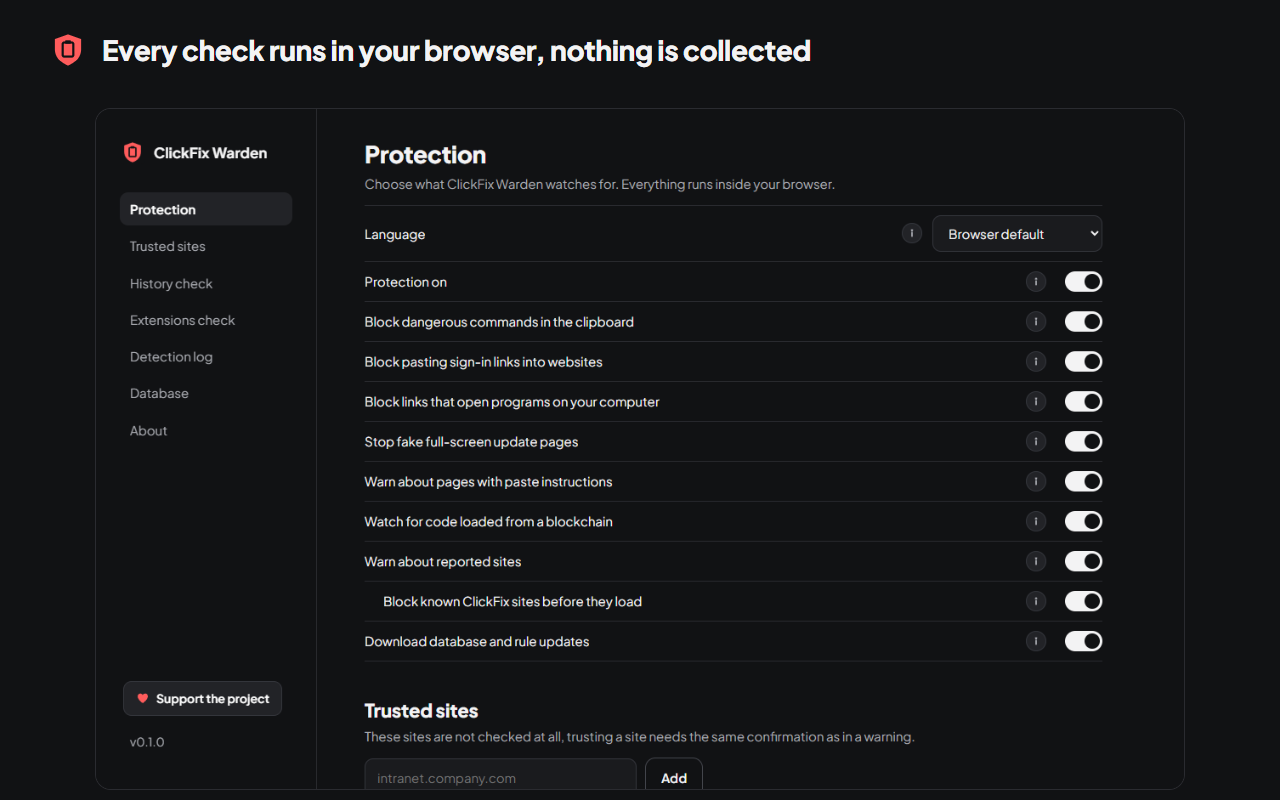
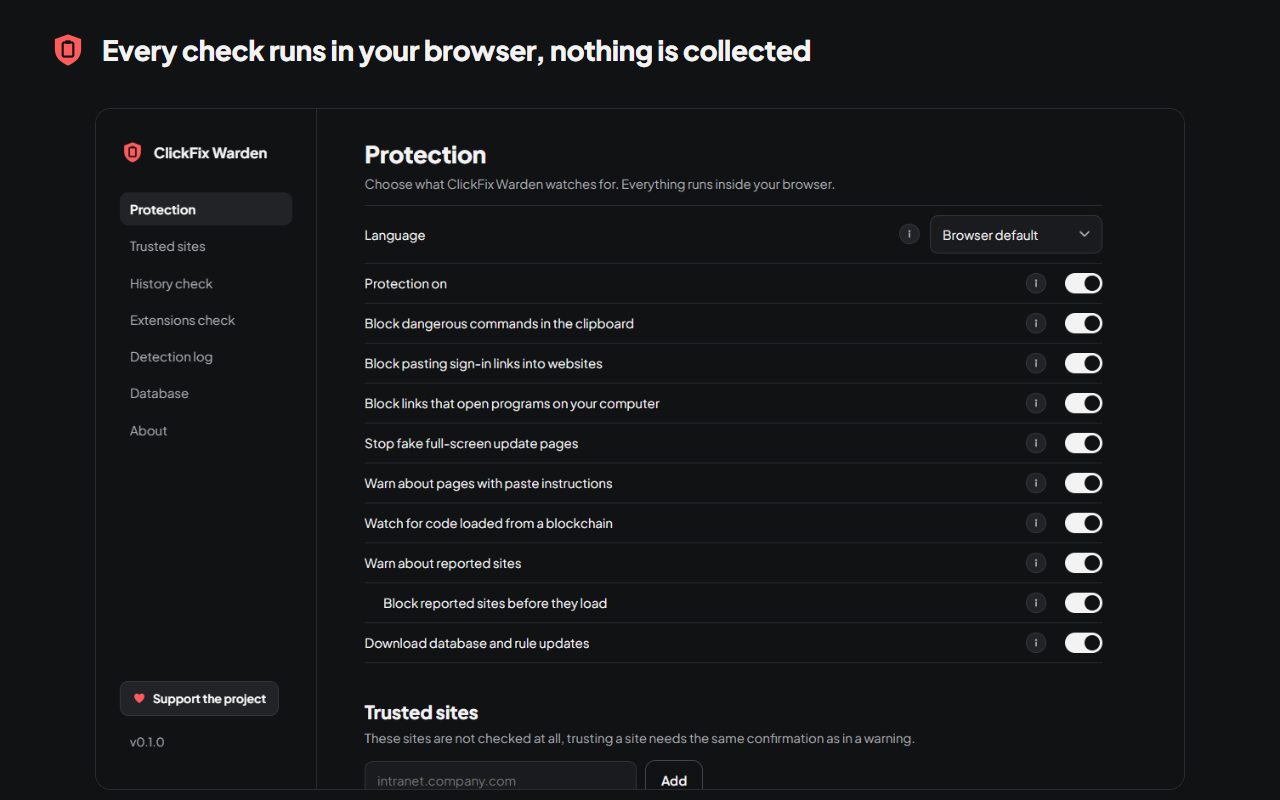
Stop every reported site before it loads, not only ClickFix pages
A reported server could open a login prompt before the in-page bar appeared. Malware downloads and control servers now get the full-page warning with their own wording, and the page stops loading while it is replaced.

diff --git a/tests/e2e/clickfix.spec.ts b/tests/e2e/clickfix.spec.ts
@@ -215,7 +215,22 @@ test.describe('normal pages stay untouched', () => {
 });
 
 test.describe('reputation', () => {
-  test('reported site shows the warning bar', async ({ context, sw }) => {
+  test('reported malware site is stopped before it loads with a malware warning', async ({ context, sw, extId }) => {
+    const page = await context.newPage();
+    await page.goto(site('reported.test')).catch(() => undefined);
+    await expect.poll(() => page.url()).toContain(`chrome-extension://${extId}/warning.html`);
+    await expect(page.locator('#lead')).toContainText('can infect your computer');
+    await expect(page.locator('.advice')).toBeHidden();
+    await expect.poll(async () => (await lastDetection(sw))?.kind).toBe('reputation-block');
+  });
+
+  test('with blocking before load turned off a reported site shows the warning bar', async ({ context, sw }) => {
+    await sw.evaluate(async () => {
+      await chrome.storage.local.set({ settings: { blockPage: false } });
+    });
+    await expect
+      .poll(() => sw.evaluate(async () => ((await chrome.storage.local.get('effective')).effective as { settings: { blockPage: boolean } } | undefined)?.settings.blockPage))
+      .toBe(false);
     const page = await context.newPage();
     await page.goto(site('reported.test'));
     await expect.poll(() => overlayShown(page)).toBe(true);
@@ -238,11 +253,11 @@ test.describe('reputation', () => {
     await expect.poll(() => overlayShown(page)).toBe(true);
   });
 
-  test('download link from the daily URLhaus part is reported', async ({ context, sw }) => {
+  test('download link from the daily URLhaus part is stopped before it loads', async ({ context, extId }) => {
     const page = await context.newPage();
-    await page.goto(site('download.test', '/setup.exe'));
-    await expect.poll(() => overlayShown(page)).toBe(true);
-    await expect.poll(async () => (await lastDetection(sw))?.kind).toBe('reputation');
+    await page.goto(site('download.test', '/setup.exe')).catch(() => undefined);
+    await expect.poll(() => page.url()).toContain(`chrome-extension://${extId}/warning.html`);
+    await expect(page.locator('#reports')).toContainText('URLhaus');
   });
 
   test('hourly change list adds and removes reports', async ({ context, sw, extId }) => {
@@ -254,8 +269,8 @@ test.describe('reputation', () => {
       .poll(() => sw.evaluate(async () => ((await chrome.storage.local.get('feedMeta')).feedMeta as { hotGenerated: string }).hotGenerated))
       .not.toBe(before);
     const added = await context.newPage();
-    await added.goto(site('delta-added.test'));
-    await expect.poll(() => overlayShown(added)).toBe(true);
+    await added.goto(site('delta-added.test')).catch(() => undefined);
+    await expect.poll(() => added.url()).toContain(`chrome-extension://${extId}/warning.html`);
     const removed = await context.newPage();
     await removed.goto(site('payload-reported.test'));
     await removed.waitForTimeout(2000);

diff --git a/entrypoints/background.ts b/entrypoints/background.ts
@@ -1,7 +1,7 @@
 import { browser, type Browser } from 'wxt/browser';
 import { lookupKeys } from '../src/feed/db';
 import { ipKey, lookupKeysForUrl } from '../src/feed/keys';
-import { type FeedHit, hasClickFix } from '../src/feed/types';
+import type { FeedHit } from '../src/feed/types';
 import { updateAll } from '../src/feed/update';
 import { FEED_REFRESH_MINUTES } from '../src/shared/constants';
 import { addDetection } from '../src/shared/log';
@@ -74,7 +74,7 @@ function warningUrl(target: string): string {
   return browser.runtime.getURL('/warning.html') + '?u=' + encodeURIComponent(target);
 }
 
-/** Looks up a top-level navigation and sends ClickFix pages to the warning page. */
+/** Looks up a top-level navigation and sends every reported address to the warning page before the site can react. */
 async function checkNavigation(tabId: number, url: string): Promise<void> {
   if (tabId < 0 || !/^https?:/i.test(url)) return;
   const { settings } = await getEffective();
@@ -89,7 +89,7 @@ async function checkNavigation(tabId: number, url: string): Promise<void> {
   const ipHits = previous?.url === url ? previous.ipHits : [];
   await writeTab(tabId, { url, hits, ipHits });
   await setBadge(tabId, hits.length + ipHits.length > 0);
-  if (hits.length && settings.blockPage && hasClickFix(hits) && !(await isBypassed(host))) {
+  if (hits.length && settings.blockPage && !(await isBypassed(host))) {
     await addDetection({
       kind: 'reputation-block',
       action: 'blocked',
@@ -111,7 +111,8 @@ async function pageStatus(url: string, tabId: number | undefined): Promise<PageS
     state = { url, hits: await lookupKeys(lookupKeysForUrl(url)), ipHits: state?.url === url ? state.ipHits : [] };
     if (tabId !== undefined) await writeTab(tabId, state);
   }
-  return { hits: [...state.hits, ...state.ipHits], trusted };
+  const blocked = state.hits.length > 0 && settings.blockPage && !(await isBypassed(host));
+  return { hits: [...state.hits, ...state.ipHits], trusted, blocked };
 }
 
 async function leave(tabId: number): Promise<void> {

diff --git a/scripts/screenshots.ts b/scripts/screenshots.ts
@@ -99,11 +99,18 @@ try {
   await slide(context, '2-says-what-and-why.png', 'Says in plain words what was blocked and why', await capture(page));
 
   await page.goto(`http://clickfix-site.test:47123/`).catch(() => undefined);
-  await page.waitForURL(/warning\.html/);
+  // The site is stopped mid-load and replaced, so watch the address instead of waiting for a load event.
+  for (let i = 0; i < 50 && !page.url().includes('warning.html'); i++) await sleep(200);
+  await page.waitForLoadState('load');
   await slide(context, '3-known-clickfix-site.png', 'Blocks known ClickFix sites before they load', await capture(page));
 
+  // The banner is what a site reported by its server address shows, so this slide turns off blocking before load.
+  await sw.evaluate(async () => chrome.storage.local.set({ settings: { blockPage: false } }));
+  await sleep(800);
   await page.goto(`http://reported.test:47123/`);
   await slide(context, '4-reported-site.png', 'Warns about sites reported in public threat databases', await capture(page));
+  await sw.evaluate(async () => chrome.storage.local.set({ settings: {} }));
+  await sleep(800);
 
   const options = await context.newPage();
   await options.goto(`chrome-extension://${extId}/options.html`);
@@ -122,5 +129,10 @@ try {
   console.log(`Screenshots written to ${out}`);
 } finally {
   server.kill();
-  rmSync(profile, { recursive: true, force: true });
+  // Windows can hold the profile for a moment after a crash, leaving it must not hide the real error.
+  try {
+    rmSync(profile, { recursive: true, force: true });
+  } catch {
+    // removed on the next run
+  }
 }

diff --git a/entrypoints/warning/main.ts b/entrypoints/warning/main.ts
@@ -1,5 +1,5 @@
 import { browser } from 'wxt/browser';
-import type { FeedHit } from '../../src/feed/types';
+import { type FeedHit, hasClickFix } from '../../src/feed/types';
 import { loadI18nOverride, localizePage, t, tParts, uiLang } from '../../src/shared/i18n';
 import type { Message } from '../../src/shared/messages';
 import { longDate, whatOfReport } from '../../src/ui/explain';
@@ -27,7 +27,10 @@ async function render(): Promise<void> {
   const rep = whatOfReport(hits);
   const lead = document.getElementById('lead')!;
   const strong = (s: string) => el(document, 'strong', undefined, s);
-  if (rep) lead.append(...tParts('warnLead', [strong(host), rep.source, strong(rep.what), strong(t('warnSteals'))]));
+  // The paste advice only fits ClickFix pages, other reports get a plain malware warning.
+  const clickfix = !rep || hasClickFix(hits);
+  document.querySelector<HTMLElement>('.advice')!.hidden = !clickfix;
+  if (rep) lead.append(...tParts(clickfix ? 'warnLead' : 'warnLeadOther', [strong(host), rep.source, strong(rep.what), strong(t('warnSteals'))]));
   else lead.append(...tParts('warnLeadUnknown', [strong(host), strong(t('warnSteals'))]));
 
   const row = document.getElementById('reports')!;

diff --git a/src/content/guard.ts b/src/content/guard.ts
@@ -375,6 +375,11 @@ export function startGuard(): void {
       if (!status?.hits?.length) return;
       pageReported = true;
       if (!settings.reputation || !settings.enabled || status.trusted) return;
+      // The warning page is on its way, stop the site from loading any further in the meantime.
+      if (status.blocked) {
+        window.stop();
+        return;
+      }
       const render = () =>
         showAlert({ kind: 'reputation', host, hits: status.hits }, overlayActions, settings.customWarning);
       if (document.documentElement) render();

diff --git a/src/shared/messages.ts b/src/shared/messages.ts
@@ -38,6 +38,8 @@ export interface AlertData {
 export interface PageStatus {
   hits: FeedHit[];
   trusted: boolean;
+  /** The background is already sending this tab to the warning page. */
+  blocked?: boolean;
 }
 
 export type Message =

diff --git a/store/chrome-web-store.md b/store/chrome-web-store.md
@@ -27,7 +27,7 @@ Protects users from ClickFix and fake CAPTCHA social engineering attacks, and fr
 - storage, Saves the user's settings, trusted sites, the local detection log and the current detection rules on the device.
 - unlimitedStorage, Keeps the downloaded list of reported addresses, tens of thousands of entries, in IndexedDB so every lookup happens on the device.
 - alarms, Schedules the hourly download of the signed database and detection rules.
-- webNavigation, Checks the address of each page the user opens against the local database before it loads, so known ClickFix sites can be stopped with a warning page.
+- webNavigation, Checks the address of each page the user opens against the local database before it loads, so reported sites can be stopped with a warning page.
 - webRequest, Reads the IP address of the server a page comes from, without blocking or changing any request, to compare it with reported malware control servers.
 - clipboardWrite, When a page has already put a malicious command in the clipboard, replaces it with a harmless note so that pasting it does nothing.
 - Host permission (all sites), ClickFix pages appear on any domain, including hacked legitimate sites, so the content scripts that watch clipboard writes and paste instructions have to run on every page. The same permission lets the extension download its database from xvoidbyte.github.io.

diff --git a/store/listing.md b/store/listing.md
@@ -33,7 +33,7 @@ WHAT IT STOPS
 - Known malicious extensions such as fake ad blockers, on request
 
 REPORTED SITES
-ClickFix Warden also warns you about sites, download links and servers reported in the public URLhaus, ThreatFox and Feodo Tracker databases by abuse.ch, and stops sites reported as ClickFix pages before they load. You can check your browsing history against the same database, inside your browser, whenever you want.
+ClickFix Warden also warns you about sites, download links and servers reported in the public URLhaus, ThreatFox and Feodo Tracker databases by abuse.ch, and stops them before they load. You can check your browsing history against the same database, inside your browser, whenever you want.
 
 ALWAYS UP TO DATE
 Attackers change their tricks every week - the detection rules and the database update every hour from a digitally signed source, without waiting for a new version of the extension.
